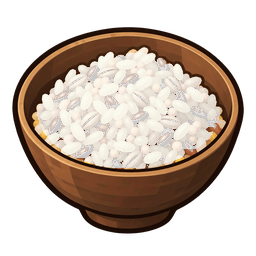
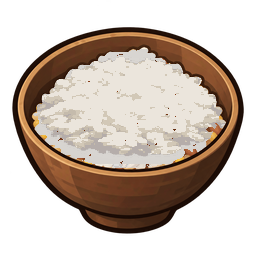
art(grains): replace recolored barley shapes with short-grain white rice candidate

Changed region(s): [[0.125, 0.1875, 0.875, 0.6562]]

diff --git a/Art/Candidates/WhiteRice/README.md b/Art/Candidates/WhiteRice/README.md
@@ -1,10 +1,14 @@
-# White rice image candidates — same original wooden bowls
+# White-rice dish image candidates
 
-**Candidate only.** These derived 256×256 PNGs are not final accepted high-resolution sources or shipped production textures. The two existing wooden bowls remain unchanged; each original retains its own distinct design.
+**Author approval pending.** This branch does not modify production Textures or authoritative high-resolution Art/Sources.
 
-- White rice meal: `Art/Candidates/WhiteRice/WhiteRiceMeal_256px_preview.png` — original food texture `Textures/Things/Item/Meal/AMJC_MixedGrainMeal/AMJC_MixedGrainMeal_a.png`, original blob `dcd01588db4585504551d1ec88358cca5d33ee45`.
-- White rice porridge: `Art/Candidates/WhiteRice/WhiteRicePorridge_256px_preview.png` — original food texture `Textures/Things/Item/Meal/AMJC_MixedGrainPorridge/AMJC_MixedGrainPorridge_a.png`, original blob `3c76850ed8e2728c744852de023ca8e8e8704602`.
+- Original meal bowl: `Textures/Things/Item/Meal/AMJC_MixedGrainMeal/AMJC_MixedGrainMeal_a.png` (blob `dcd01588db4585504551d1ec88358cca5d33ee45`).
+- Original porridge bowl: `Textures/Things/Item/Meal/AMJC_MixedGrainPorridge/AMJC_MixedGrainPorridge_a.png` (blob `3c76850ed8e2728c744852de023ca8e8e8704602`).
 
-2026-10-20 revision: repaired warm/yellow residual grains in the existing 256px food-area previews without image-model generation. Food-zone-only, deterministic RGB neutralization: meal 1633 further pixels; porridge 107 further pixels. Exact old→new decoded RGBA diff outside the food elliptical masks: **zero** in each; alpha differences: **zero**. Previously recorded original→candidate diff was also restricted to those masks, so the bowls remain pixel-identical to the original production images outside the food masks. Corrected outputs round-trip decode to identical 256×256 RGBA values.
+## 2026-10-20 meal rework
 
-Do not conflate this candidate inspection with accepted source-art transfer; existing high-resolution masters in `Art/Sources` are not modified. Before promotion, obtain author visual acceptance, use the applicable high-res-source export process, and run PNG integrity validation on committed production pixels. No Steam publishing or live-game test authorization.
+The previously color-neutralized meal still displayed barley-shaped grains, making it invalid as white rice. The new `WhiteRiceMeal_256px_preview.png` is a **new short-grain cooked-rice content layer**, not the old barley pixels recolored. The newly created layer was composed only over the interior food area, on top of the previous unmodified wooden bowl pixels. Preflight 256×256 RGBA candidate inspection: **0 alpha changes; 0 changes to pixels classified as wooden bowl; no pixels outside the defined food area changed.** Newly produced pixels use the source-isolated short-grain rice layer. Visual acceptance remains open, especially for the lower food/bowl boundary at game scale.
+
+The porridge candidate `WhiteRicePorridge_256px_preview.png` has **not** been shape-replaced by this revision; it remains under separate visual review. Do not represent either image as accepted.
+
+The high-resolution original masters remain untouched. Do not merge the draft PR to main or wire production Def textures until author acceptance and high-resolution Art/Sources retention. No RimWorld native run or Steam upload.
